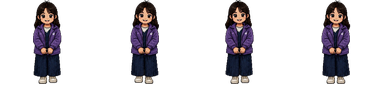
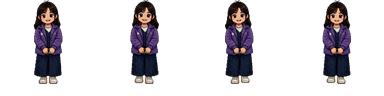
fix(office): 紫衣女孩精灵图改为朝右 + 缓存串升 h3v2
OfficeView 里紫衣女孩的朝向不对：B 位引擎本身会翻转，而生成帧原始就是朝左，
叠加后朝向反了。本次把 6 张精灵图整体镜像成**朝右**，交给引擎在 B 位翻转后
朝左对桌（与 v1/dev 同向）。

配套改动：
- `AGENT_PURPLE` 缓存串 `?v=h3v1` → `?v=h3v2`。**这步不能省** —— 图片内容变了
  但 URL 不变时浏览器会继续用缓存的旧图，改了等于没改。
- 同步更新 `constants.ts` 两处 docstring（「侧视朝左」→「侧视朝右」，
  并说明与 v1/dev 同向、镜像原因）。

仅改动朝向与缓存串，帧布局（4×2 = 8 帧，0-3 打字 / 4-7 坐姿呼吸）、
anchor 0.875 鞋底、联合 bbox 摆放均未变。

注：`apps/web/public/dev-sprite-preview.html` 是同期的本地调试页（无任何代码
引用），未一并提交。

diff --git a/apps/web/src/components/office/constants.ts b/apps/web/src/components/office/constants.ts
@@ -143,11 +143,12 @@ export const ASSET_URLS = {
   OFFICE_DESK_FRONT: "/office-assets/office-desk-front.png?v=chair2",
   OFFICE_FRONTDESK_SET: "/office-assets/office-frontdesk-set.png",
   /** 紫衣女孩动画表 v2（2026-09-08：MiniMax H3 本地视频生成抽帧，4×2 = 8 帧全
-   *  身坐姿 96×96：帧 0-3 打字循环、帧 4-7 坐姿呼吸。侧视朝左（与 v1 同向），
-   *  内容底 y=84 = anchor 0.875 鞋底；打字/坐姿两组共用同一联合 bbox 摆放，
-   *  切换动作不缩放不跳动。腿部仍由桌套件 front 片运行时遮挡。）
+   *  身坐姿 96×96：帧 0-3 打字循环、帧 4-7 坐姿呼吸。侧视朝右（与 v1/dev 同向，
+   *  B 位引擎翻转后朝左对桌；生成帧原始朝左，已整体镜像）。内容底 y=84 =
+   *  anchor 0.875 鞋底；打字/坐姿两组共用同一联合 bbox 摆放，切换动作不缩放
+   *  不跳动。腿部仍由桌套件 front 片运行时遮挡。）
    *  v1（4 帧打字）备份于 agent-purple-typing-sheet.png。 */
-  AGENT_PURPLE: "/office-assets/agent-purple-anim-sheet.png?v=h3v1",
+  AGENT_PURPLE: "/office-assets/agent-purple-anim-sheet.png?v=h3v2",
 } as const;
 
 /** 全部需预载的资产 URL（OfficeScene.mount 中统一 Assets.load） */
@@ -183,8 +184,8 @@ export const SHEET_LAYOUTS: Record<string, SheetLayout> = {
 };
 
 /**
- * 紫衣女孩动画帧表 v2（4×2 = 8 帧：0-3 打字循环、4-7 坐姿呼吸，均侧视朝左）。
- * working/idle/working→呼吸 在两套坐姿动作间切换；坐下/起身无独立帧，指向静态帧。
+ * 紫衣女孩动画帧表 v2（4×2 = 8 帧：0-3 打字循环、4-7 坐姿呼吸，均侧视朝右）。
+ * working/idle 在两套坐姿动作间切换；坐下/起身无独立帧，指向静态帧。
  */
 export const PURPLE_ANIM_SEQS: Record<AgentAnimKey, number[]> = {
   idle: [4, 5, 6, 7],
